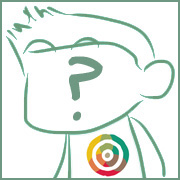
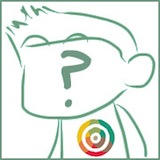
fixing image sizes

diff --git a/app/uploaders/user_image_uploader.rb b/app/uploaders/user_image_uploader.rb
@@ -2,7 +2,7 @@ class UserImageUploader < ImageUploader
   
   version :thumb do
     process :crop
-    resize_to_fill(180, 180)
+    resize_to_fill(160, 160)
   end
 
   # Create different versions of your uploaded files:

diff --git a/app/uploaders/goal_template_image_uploader.rb b/app/uploaders/goal_template_image_uploader.rb
@@ -1,7 +1,7 @@
 class GoalTemplateImageUploader < ImageUploader
   
   version :thumb do
-    resize_to_fit(180, 180)
+    resize_to_fit(170, 170)
   end
 
   # Create different versions of your uploaded files:
